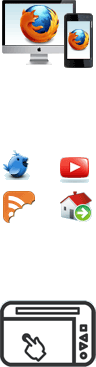
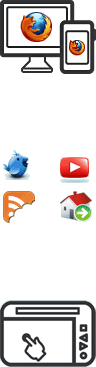
Bug 559134 - firstrun page adjustments [r=vingtetun]

Changed region(s): [[0.0, 0.0, 1.0, 0.2098]]

diff --git a/themes/hildon/firstRun.css b/themes/hildon/firstRun.css
@@ -44,6 +44,7 @@ body {
   font-size: 16px;
   color: #444;
   border-top: 4px solid #1e4262;
+  margin-top: 0;
 }
 
 h1 {

diff --git a/themes/wince/firstRun.css b/themes/wince/firstRun.css
@@ -44,6 +44,7 @@ body {
   font-size: 16px;
   color: #444;
   border-top: 4px solid #1e4262;
+  margin-top: 0;
 }
 
 h1 {
